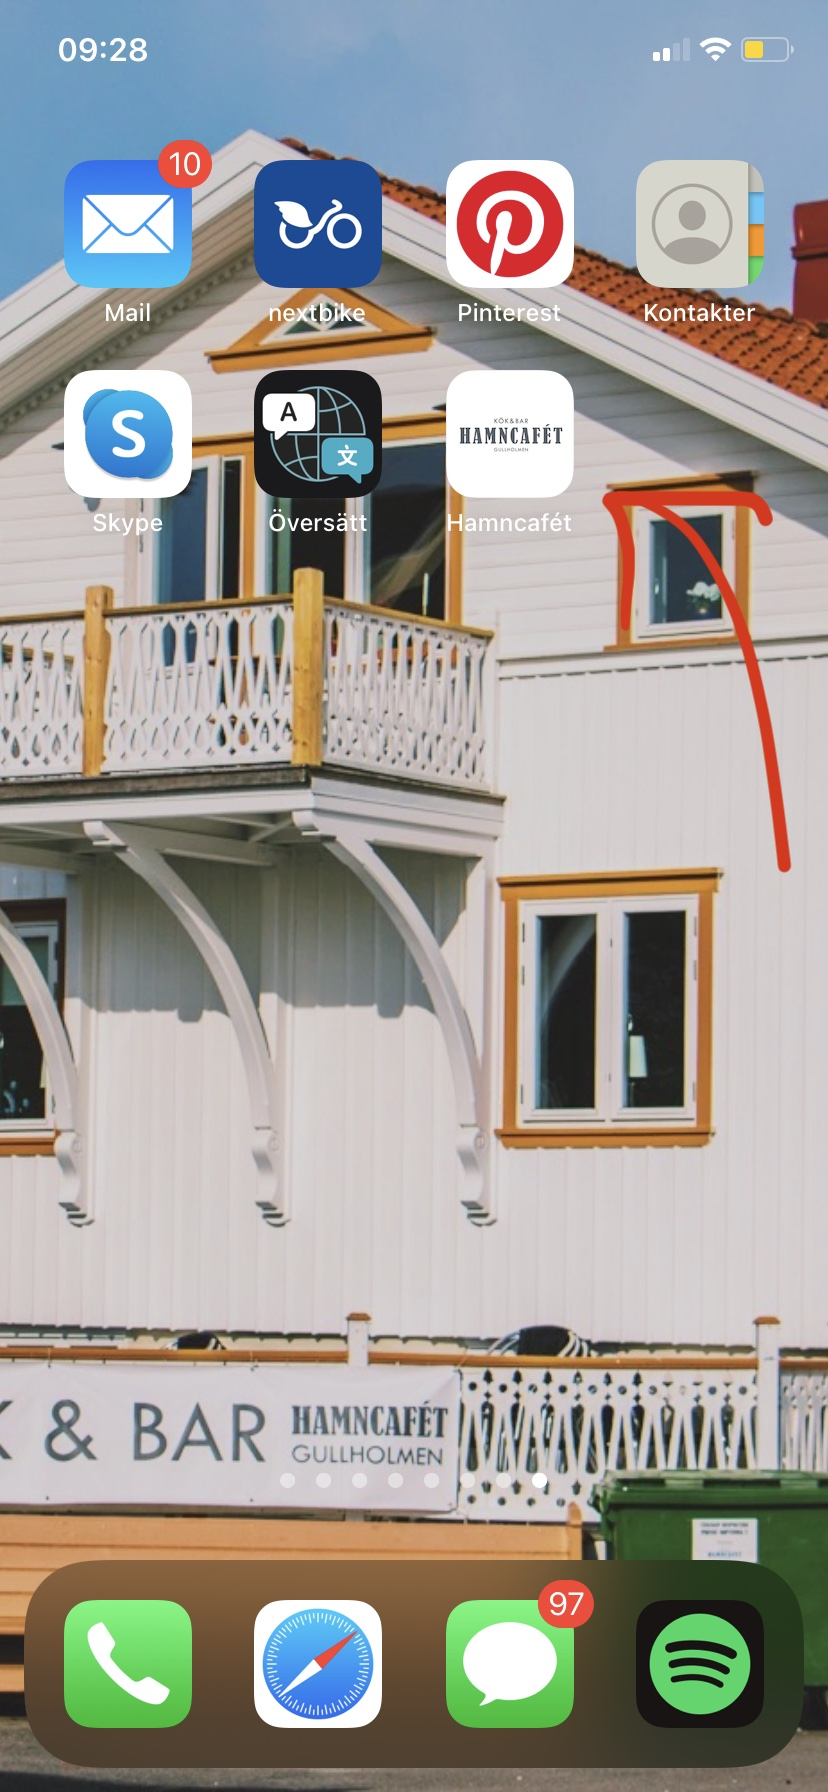
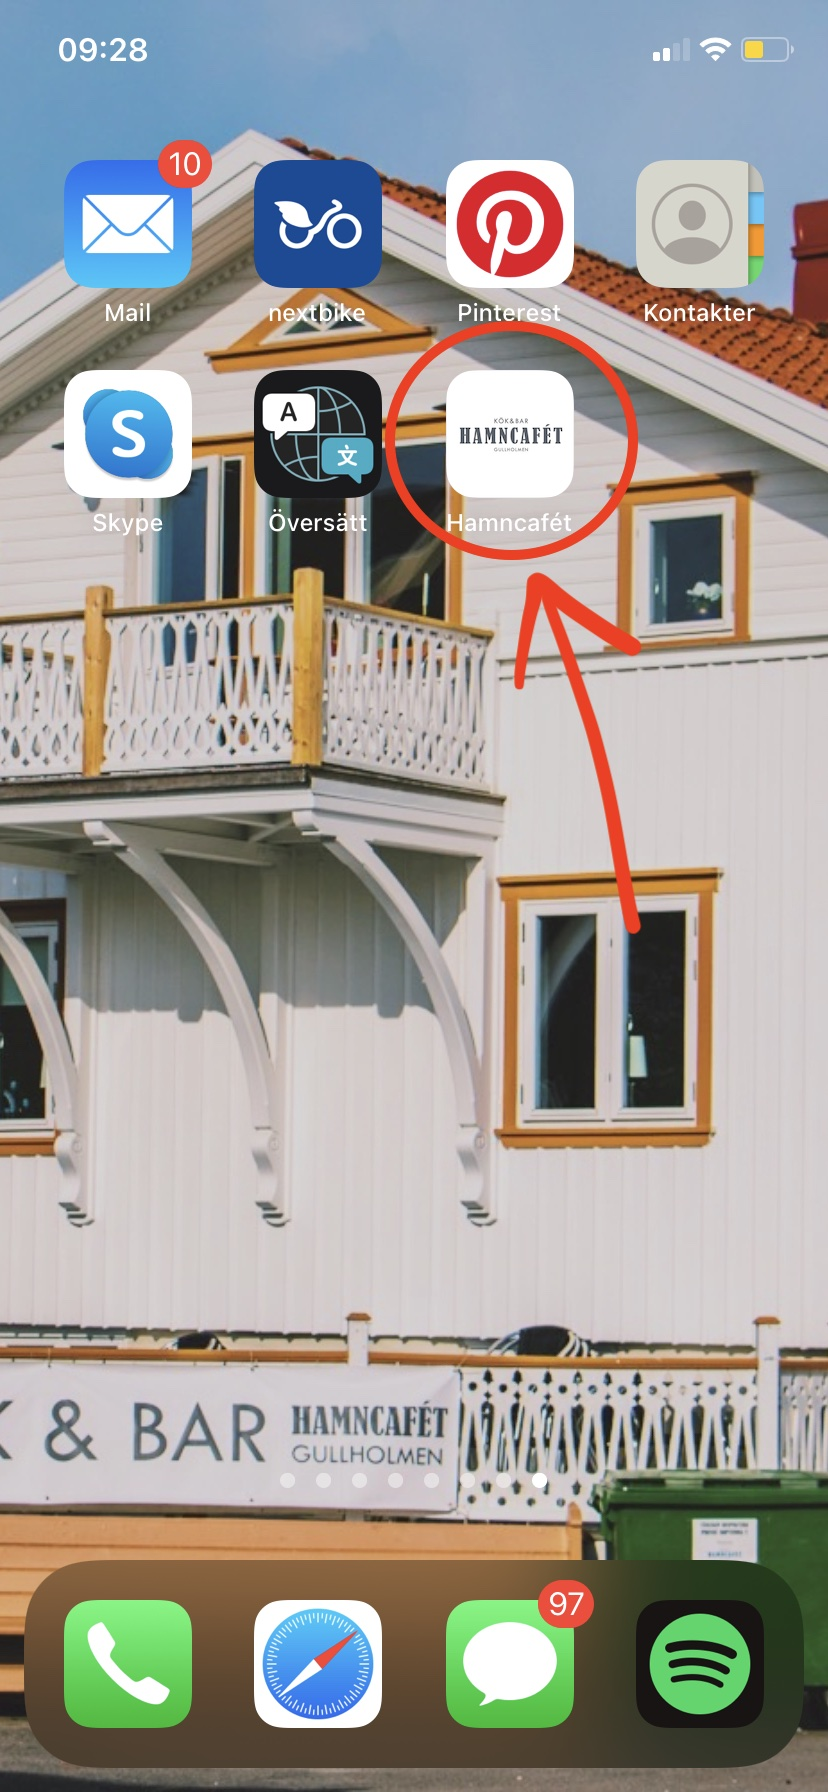
updated instruction pictures

Changed region(s): [[0.4529, 0.2188, 0.9662, 0.5312], [0.4831, 0.1562, 0.6643, 0.2188], [0.6643, 0.1875, 0.7548, 0.2188]]

diff --git a/src/frontend/src/components/DownloadInstructions.js b/src/frontend/src/components/DownloadInstructions.js
@@ -33,7 +33,7 @@ export default function Guests(props) {
                     </div>
                     <div className="Instruction">
                         <h4>2.Välj lägg till på startskärmen</h4>
-                        <img className='instructionImg' src="/images/guidance/chromeStep2.jpg"></img>
+                        <img className='instructionImg' src="/images/guidance/chromeStep2.png"></img>
                     </div>
                     <div className="Instruction">
                         <h4>3. Tryck på "Lägg till"</h4>
@@ -45,7 +45,7 @@ export default function Guests(props) {
                     </div>
                     <div className="Instruction">
                         <h4>5. Nu ligger den på hemskärmen!</h4>
-                        <img className='instructionImg' src="/images/guidance/chromeStep5.jpg"></img>
+                        <img className='instructionImg' src="/images/guidance/chromeStep5.png"></img>
                     </div>
                     </Modal.Body>
                 </Modal>
@@ -71,7 +71,7 @@ export default function Guests(props) {
                     </div>
                     <div className="Instruction">
                         <h4>2. Välj "Lägg till på hemskärmen"</h4>
-                        <img className='instructionImg' src="/images/guidance/safariStep2.PNG"></img>
+                        <img className='instructionImg' src="/images/guidance/safariStep2.jpg"></img>
                     </div>
                     <div className="Instruction">
                         <h4>3. Tryck på "Lägg till"</h4>
